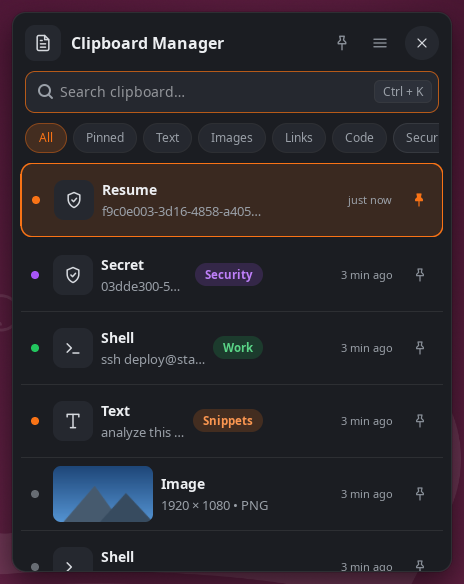
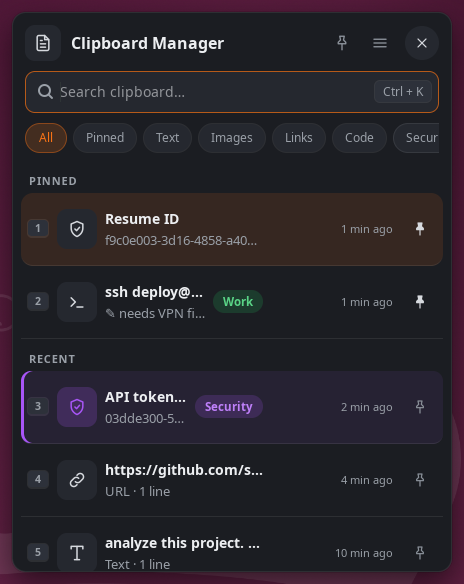
docs: update for notes, pinned section, digit keys; new screenshot

diff --git a/ARCHITECTURE.md b/ARCHITECTURE.md
@@ -42,14 +42,14 @@ src/
     mod.rs           Store trait
     memory.rs        MemoryStore: ordering, dedup-as-bump, eviction, restore, expiry
     persistent.rs    PersistentStore: MemoryStore + flush on every mutation
-    engine.rs        history.bin reader/writer (V1–V4)
+    engine.rs        history.bin reader/writer (V1–V5)
   hotkey/            X11 XGrabKey · Wayland portal → GNOME shortcut → evdev
   platform/          X11Platform (x11rb, XTest) · WaylandPlatform (RemoteDesktop portal)
   ui/
     popup.rs         Window, header, search, chips, list, undo bar, keyboard, focus
-    item_row.rs      One row: dot, kind tile/thumbnail, title, tag pill, actions, pin
+    item_row.rs      One row: dot/keycap, kind tile/thumbnail, label-or-content, tag pill, actions, pin
     context_menu.rs  Right-click menu with tag and colour sub-pages
-    editor.rs        Edit title/content popover
+    editor.rs        Edit popover: title, content, note
     preview.rs       Full preview popover
     filter.rs        Ordering, search and chip filtering (pure)
     format.rs        Relative time, titles, subtitles, preview header (pure)

diff --git a/README.md b/README.md
@@ -39,7 +39,7 @@ The app starts automatically after install. Copy as usual, then press
 | **Filter** | Chips under the search box: All · Pinned · Text · Images · Links · Code · your tags |
 | **Preview** | **Space**, or the 👁 button on hover — full text or the whole image |
 | **Copy / paste to terminal / delete** | Buttons appear when you hover over a row |
-| **Pin** (never evicted, always on top) | The pin on the right of a row, or **Ctrl+P** |
+| **Pin** (never evicted, listed under **PINNED** at the top) | The pin on the right of a row, or **Ctrl+P** |
 | **Menu** | Right-click a row, **Menu** key or **Shift+F10** |
 | **Edit title, text or note** | Menu → Edit, or **Ctrl+E** |
 | **Note** (longer text, searchable) | Menu → Add note… — shown with ✎ under the item and in Preview |

diff --git a/CHANGELOG.md b/CHANGELOG.md
@@ -19,6 +19,7 @@ All notable changes to Clipboard Manager will be documented here.
 - **Notes**: attach longer, searchable text to any item (menu → Add note…).
 - Rows show the copied content (or your label) in bold; the type is shown
   by the icon. Explicitly coloured rows are tinted in that colour.
+- Pinned items are grouped under a PINNED header above RECENT items.
 - Digits 1–9 paste directly while the search is empty (keycaps show the
   numbers); Ctrl+K or / switches digits to searching.
 - **Full preview** of long text and images (Space).
